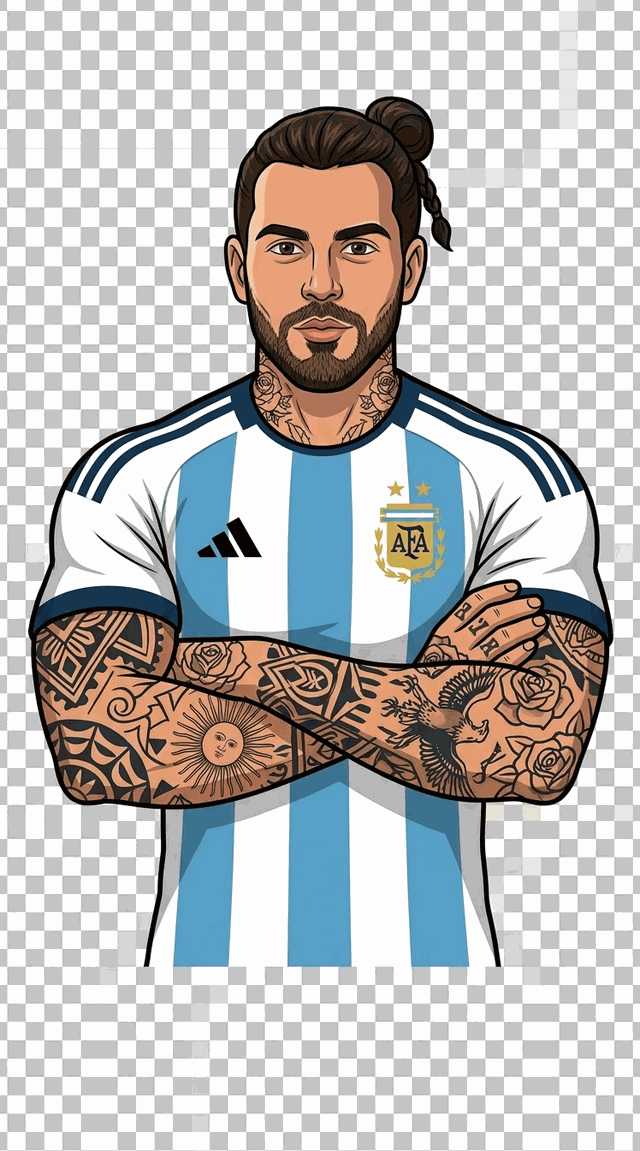
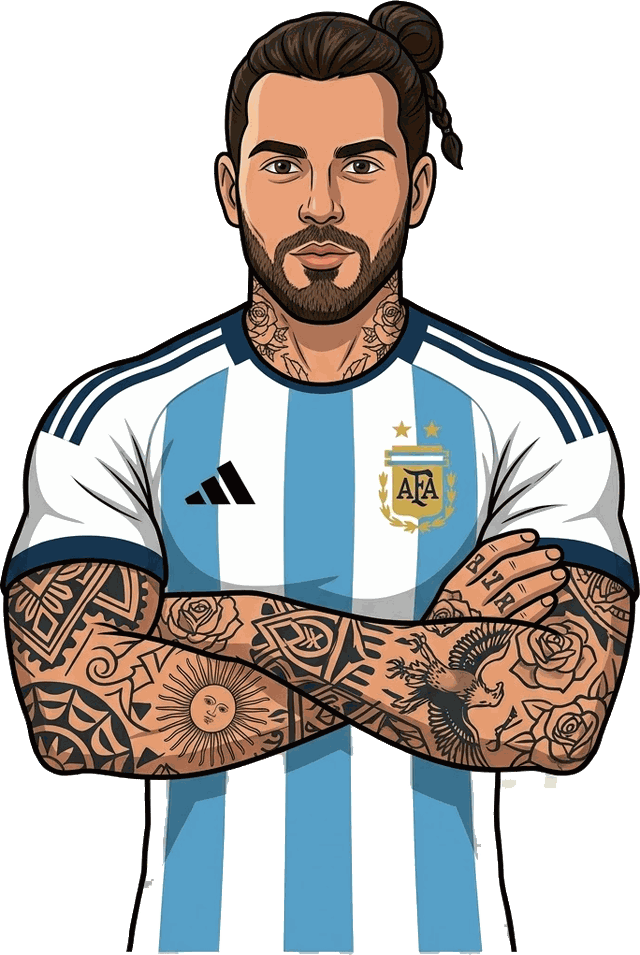
v241: Nicolás Troilo freigestellt, Positions-/Größenfixes bei 6 Karten
- ar-4 (Nicolás Troilo) war wie zuvor ar-1/ar-2 noch nie durch die
  Freistell-Pipeline gelaufen (volles Schachbrett live im Spiel) - jetzt
  aus der Originalquelle neu freigestellt, vergrößert und zentriert.
- it-3 (Naderi Moccia), ar-1 (Sinón Martín), ar-2 (Lucas Spósito): die in
  v238/v240 gesetzte GROESSE sorgte für eine sichtbare Lücke zwischen
  Bildunterkante und Statistikbereich (der Bauch schien "zu früh"
  abgeschnitten). Ursache war die bisherige Faustformel unten=77-hoehe,
  die zwar die Kopfposition erhält, aber die Bildunterkante zu weit nach
  oben zieht. Jetzt direkt per Messung auf einen Abstand von ~0px zum
  Statistikbereich gelöst (hoehe 54, unten 20 bei allen dreien) und dabei
  etwas größer gemacht, wie gewünscht.
- fr-2 (Simon Martin): Versatz von 12 auf 23 erhöht, saß noch zu weit
  rechts.
- ng-2 (Sani Martins): etwas kleiner gemacht (hoehe 58), damit sein nach
  oben zeigender Finger nicht mehr hinter dem Flaggen-Badge verschwindet.

Pipeline-Housekeeping: den wiederholt nötigen clean_edge_haze()-Schritt
(entfernt blasse halbtransparente Randpixel, die strip_white_frame()
durchlässt) jetzt fest in pipeline_v2.py als Teil von process()
eingebaut, statt ihn jedes Mal manuell nachzuschalten.

Claude-Session: https://claude.ai/code/session_01Bq3j1UmgmmQRjdUKFtX7an

diff --git a/index.html b/index.html
@@ -18,7 +18,7 @@
   <link rel="preconnect" href="https://fonts.googleapis.com">
   <link rel="preconnect" href="https://fonts.gstatic.com" crossorigin>
   <link href="https://fonts.googleapis.com/css2?family=Barlow+Condensed:ital,wght@0,800;1,800&family=Bungee&display=swap" rel="stylesheet">
-  <link rel="stylesheet" href="stil.css?v=240">
+  <link rel="stylesheet" href="stil.css?v=241">
 </head>
 <body>
 
@@ -39,7 +39,7 @@
   <div id="start-screen" class="bildschirm-karte">
     <div class="start-hero">
       <div class="start-icon">
-        <img src="bilder/logo-fuchs-transparent.png?v=240" width="102" height="102" alt="" class="app-icon">
+        <img src="bilder/logo-fuchs-transparent.png?v=241" width="102" height="102" alt="" class="app-icon">
       </div>
       <h1>Trollhouse</h1>
       <p class="start-tagline">Ein Raum, ein Abend, viele Spiele</p>
@@ -192,11 +192,11 @@
   <div id="lobby-screen" class="bildschirm-karte" hidden>
     <div class="lobby-kopf">
       <div class="lobby-marke">
-        <span class="lobby-logo-badge"><img src="bilder/logo-fuchs-transparent.png?v=240" width="36" height="36" alt="" class="lobby-app-icon"></span>
+        <span class="lobby-logo-badge"><img src="bilder/logo-fuchs-transparent.png?v=241" width="36" height="36" alt="" class="lobby-app-icon"></span>
         <h1>Trollhouse</h1>
       </div>
       <button id="btn-lobby-verlassen" class="lobby-verlassen" type="button">
-        <img src="bilder/icon-raum-verlassen.svg?v=240" width="32" height="32" alt="">
+        <img src="bilder/icon-raum-verlassen.svg?v=241" width="32" height="32" alt="">
         <span class="nur-screenreader">Raum verlassen</span>
       </button>
     </div>
@@ -242,6 +242,6 @@
   <!-- ---------- Hierhin rendert das jeweils laufende Spiel ---------- -->
   <div id="spiel-wurzel"></div>
 
-  <script type="module" src="app.js?v=240"></script>
+  <script type="module" src="app.js?v=241"></script>
 </body>
 </html>

diff --git a/spiele/fussball-auktion/design.js b/spiele/fussball-auktion/design.js
@@ -169,7 +169,7 @@ export const PORTRAET_BILDER = {
   "ar-1": "bilder/fussball-auktion/spieler-ar-1.png?v=240",
   "ar-2": "bilder/fussball-auktion/spieler-ar-2.png?v=240",
   "ar-3": "bilder/fussball-auktion/spieler-ar-3.png?v=236",
-  "ar-4": "bilder/fussball-auktion/spieler-ar-4.png?v=236",
+  "ar-4": "bilder/fussball-auktion/spieler-ar-4.png?v=241",
   "ar-5": "bilder/fussball-auktion/spieler-ar-5.png?v=236",
   "fr-1": "bilder/fussball-auktion/spieler-fr-1.png?v=236",
   "fr-2": "bilder/fussball-auktion/spieler-fr-2.png?v=236",
@@ -197,13 +197,14 @@ export const PORTRAET_VERSATZ = {
   "jp-4": 19,
   "jp-5": 14,
   "fr-1": 16,
-  "fr-2": 12,
+  "fr-2": 23,
   "fr-3": 21,
   "fr-4": 15,
   "fr-5": 15,
   "ng-1": 18,
   "ng-3": 3,
-  "ng-4": 16
+  "ng-4": 16,
+  "ar-4": 17
 };
 
 // Porträts mit einem sehr BREITEN Bildausschnitt (Seitenverhältnis > 1.2,
@@ -217,10 +218,12 @@ export const PORTRAET_VERSATZ = {
 export const PORTRAET_GROESSE = {
   "jp-2": { hoehe: 56, unten: 21 },
   "jp-3": { hoehe: 68 },
-  "ar-1": { hoehe: 51, unten: 26 },
-  "ar-2": { hoehe: 51, unten: 26 },
+  "ar-1": { hoehe: 54, unten: 20 },
+  "ar-2": { hoehe: 54, unten: 20 },
+  "ar-4": { hoehe: 70 },
   "ar-3": { hoehe: 54, unten: 23 },
   "ar-5": { hoehe: 54, unten: 21 },
-  "it-3": { hoehe: 52, unten: 25 },
+  "it-3": { hoehe: 54, unten: 20 },
+  "ng-2": { hoehe: 58 },
   "ng-5": { hoehe: 61, unten: 16 }
 };

diff --git a/sw.js b/sw.js
@@ -4,7 +4,7 @@
 // Nur dann wirft der Browser den alten Zwischenspeicher weg und alle Spieler
 // bekommen zuverlässig die neue Version. Das ist der einzige Handgriff, den man
 // nach dem Bearbeiten von Dateien nicht vergessen darf.
-const CACHE_NAME = "trollhouse-v240";
+const CACHE_NAME = "trollhouse-v241";
 
 const DATEIEN = [
   "./",
@@ -60,7 +60,7 @@ const DATEIEN = [
   "bilder/fussball-auktion/spieler-ar-1.png?v=240",
   "bilder/fussball-auktion/spieler-ar-2.png?v=240",
   "bilder/fussball-auktion/spieler-ar-3.png?v=240",
-  "bilder/fussball-auktion/spieler-ar-4.png?v=240",
+  "bilder/fussball-auktion/spieler-ar-4.png?v=241",
   "bilder/fussball-auktion/spieler-ar-5.png?v=240",
   "bilder/fussball-auktion/spieler-fr-1.png?v=240",
   "bilder/fussball-auktion/spieler-fr-2.png?v=240",

diff --git a/app.js b/app.js
@@ -13,9 +13,9 @@ import {
 // WICHTIG: bei jedem Versionssprung hier UND in spiele/register.js
 // (SPIEL_VERSION) mit hochzaehlen, sonst bekommen manche Geraete
 // Spiel-Fixes (spiele/<id>/spiel.js) verzoegert oder gar nicht mit.
-import { SPIELE, spielInfo } from "./spiele/register.js?v=240";
+import { SPIELE, spielInfo } from "./spiele/register.js?v=241";
 
-export const APP_VERSION = "v240";
+export const APP_VERSION = "v241";
 const appVersion = document.getElementById("app-version");
 appVersion.textContent = "Version " + APP_VERSION;
 

diff --git a/spiele/register.js b/spiele/register.js
@@ -18,7 +18,7 @@
 // in der Olympiade trotz Fix in v201/v202 teils noch bestehen lassen.
 // WICHTIG: bei jedem Versionssprung hier UND in app.js (Import von
 // register.js) mit hochzaehlen.
-const SPIEL_VERSION = "240";
+const SPIEL_VERSION = "241";
 
 export const SPIELE = [
   {
